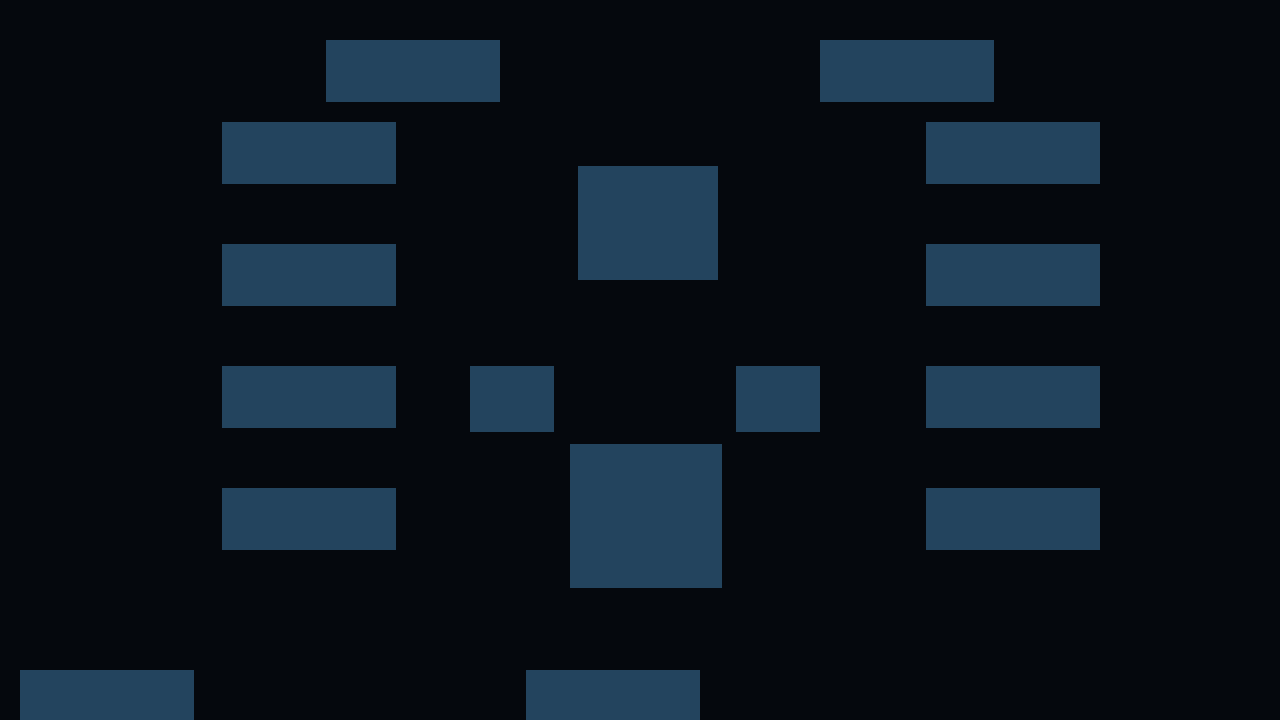
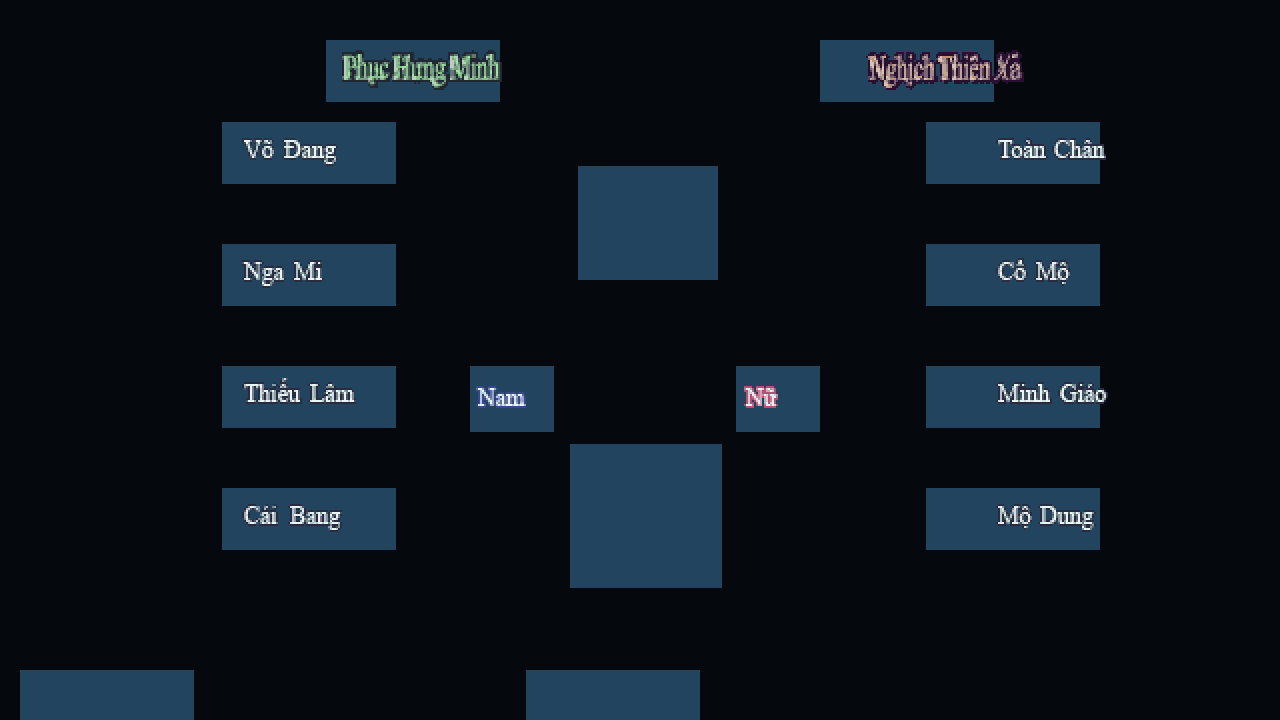
Draw a control's picture the way ImagePointer cuts it
An image id carries its own cell width: getWidthByImgID reads it as
imgID % 10000 / 100, and an id whose digits give zero is one cell the whole
image wide. ImagePointer then draws cell imgIndex at the control's top left,
full image height, at its own size rather than stretched to the control box.
LegacyImageCell is that arithmetic and LegacyImages serves the cells, sharing
one texture between every control that names the same image.

A control that has a picture no longer gets the skin's own button surface
underneath it; the picture is the surface, as in the original, and only its text
is drawn over it.

Window 2 draws its icon from 4554343. Window 10 reports 6240000, 6250000,
6270000 and 6280000 missing and window 11 reports 6240000: those profession
pictures are not in the decoded image set at all, so they are named rather than
replaced with something that would pass for the original's artwork.

diff --git a/client-core/src/main/java/vn/swordol/client/ui/legacy/LegacyWindow.java b/client-core/src/main/java/vn/swordol/client/ui/legacy/LegacyWindow.java
@@ -1,8 +1,10 @@
 package vn.swordol.client.ui.legacy;
 
 import com.badlogic.gdx.graphics.Color;
+import com.badlogic.gdx.graphics.g2d.TextureRegion;
 import com.badlogic.gdx.scenes.scene2d.Actor;
 import com.badlogic.gdx.scenes.scene2d.Group;
+import com.badlogic.gdx.scenes.scene2d.ui.Image;
 import com.badlogic.gdx.scenes.scene2d.ui.Label;
 import com.badlogic.gdx.scenes.scene2d.ui.Skin;
 import com.badlogic.gdx.scenes.scene2d.ui.TextButton;
@@ -29,16 +31,29 @@ public final class LegacyWindow extends Group {
   private final Map<Integer, Actor> actors = new LinkedHashMap<>();
 
   public LegacyWindow(UiLayout layout, Skin skin) {
+    this(layout, skin, null);
+  }
+
+  /**
+   * @param images the window's own pictures, or null to draw the plain surfaces of the skin
+   */
+  public LegacyWindow(UiLayout layout, Skin skin, LegacyImages images) {
     this.layout = layout;
     setSize(layout.width(), layout.height());
     for (UiLayout.Control control : layout.controls()) {
-      Actor actor = build(control, skin);
+      float top = LegacyPlacement.stageY(layout.height(), control.y(), control.height());
+      TextureRegion cell =
+          images == null ? null : images.cell(control.imageId(), control.imageIndex());
+      if (cell != null) {
+        // ImagePointer draws the cell at the control's top left, at its own size, not stretched.
+        Image picture = new Image(cell);
+        picture.setPosition(control.x(), top + control.height() - cell.getRegionHeight());
+        picture.setSize(cell.getRegionWidth(), cell.getRegionHeight());
+        addActor(picture);
+      }
+      Actor actor = build(control, skin, cell != null);
       if (actor == null) continue;
-      actor.setBounds(
-          control.x(),
-          LegacyPlacement.stageY(layout.height(), control.y(), control.height()),
-          control.width(),
-          control.height());
+      actor.setBounds(control.x(), top, control.width(), control.height());
       actors.put(control.id(), actor);
       addActor(actor);
     }
@@ -68,9 +83,16 @@ public final class LegacyWindow extends Group {
     return actor instanceof Label ? (Label) actor : null;
   }
 
-  private static Actor build(UiLayout.Control control, Skin skin) {
+  private static Actor build(UiLayout.Control control, Skin skin, boolean hasPicture) {
     switch (control.kind()) {
       case BUTTON:
+        if (hasPicture) {
+          // The picture is the button's surface, as it is in the original; only the text is added.
+          if (control.text().isEmpty()) return null;
+          Label caption = new Label(control.text(), skin);
+          caption.setColor(colour(control.textColor()));
+          return caption;
+        }
         TextButton button = new TextButton(control.text(), skin);
         button.getLabel().setColor(colour(control.textColor()));
         return button;

diff --git a/client-core/src/main/java/vn/swordol/client/ui/legacy/LegacyImages.java b/client-core/src/main/java/vn/swordol/client/ui/legacy/LegacyImages.java
@@ -1,0 +1,73 @@
+package vn.swordol.client.ui.legacy;
+
+import com.badlogic.gdx.graphics.Pixmap;
+import com.badlogic.gdx.graphics.Texture;
+import com.badlogic.gdx.graphics.g2d.TextureRegion;
+import com.badlogic.gdx.utils.Disposable;
+import java.io.IOException;
+import java.util.ArrayList;
+import java.util.HashMap;
+import java.util.List;
+import java.util.Map;
+import vn.swordol.client.render.ImageSet;
+
+/**
+ * The pictures a window's controls draw, cut the way {@code ImagePointer} cuts them: one image per
+ * legacy id, divided into equal cells whose width the id itself carries, with the cell an index
+ * names handed back. Textures are shared between every control that names the same image.
+ *
+ * <p>An id no source holds is reported rather than substituted, so a window shows what the data
+ * actually has instead of a stand-in that would look like the original's artwork.
+ */
+public final class LegacyImages implements Disposable {
+  private final ImageSet source;
+  private final Map<Integer, Texture> textures = new HashMap<>();
+  private final List<Integer> missing = new ArrayList<>();
+
+  public LegacyImages(ImageSet source) {
+    this.source = source;
+  }
+
+  /** The cell this control names, or null when the image or the cell is not there. */
+  public TextureRegion cell(int imageId, int imageIndex) {
+    if (imageId <= 0) return null;
+    Texture texture = texture(imageId);
+    if (texture == null) return null;
+    int width = LegacyImageCell.cellWidth(imageId, texture.getWidth());
+    if (!LegacyImageCell.holds(imageIndex, width, texture.getWidth())) return null;
+    return new TextureRegion(
+        texture, LegacyImageCell.sourceX(imageIndex, width), 0, width, texture.getHeight());
+  }
+
+  public List<Integer> missingImages() {
+    return new ArrayList<>(missing);
+  }
+
+  private Texture texture(int imageId) {
+    if (textures.containsKey(imageId)) return textures.get(imageId);
+    Texture loaded = null;
+    try {
+      byte[] bytes = source.read(imageId);
+      if (bytes == null) {
+        missing.add(imageId);
+      } else {
+        Pixmap pixels = new Pixmap(bytes, 0, bytes.length);
+        try {
+          loaded = new Texture(pixels);
+        } finally {
+          pixels.dispose();
+        }
+      }
+    } catch (IOException | RuntimeException ex) {
+      missing.add(imageId);
+    }
+    textures.put(imageId, loaded);
+    return loaded;
+  }
+
+  @Override
+  public void dispose() {
+    for (Texture texture : textures.values()) if (texture != null) texture.dispose();
+    textures.clear();
+  }
+}

diff --git a/asset-runtime/src/main/java/vn/swordol/assets/runtime/UiLayout.java b/asset-runtime/src/main/java/vn/swordol/assets/runtime/UiLayout.java
@@ -101,6 +101,7 @@ public final class UiLayout {
     JsonElement text = source.get("text");
     JsonElement colour = source.get("text_color");
     JsonElement image = source.get("image_id");
+    JsonElement imageIndex = source.get("image_index");
     JsonElement limit = source.get("char_limit");
     return new Control(
         (int) RuntimeJson.integer(member(source, "id"), "control id"),
@@ -112,6 +113,7 @@ public final class UiLayout {
         text == null || text.isJsonNull() ? "" : RuntimeJson.string(text, "control text"),
         colour == null ? 0 : (int) RuntimeJson.integer(colour, "control text colour"),
         image == null ? 0 : (int) RuntimeJson.integer(image, "control image"),
+        imageIndex == null ? 0 : (int) RuntimeJson.integer(imageIndex, "control image index"),
         limit == null ? 0 : (int) RuntimeJson.integer(limit, "control char limit"));
   }
 
@@ -166,7 +168,7 @@ public final class UiLayout {
 
   /** One placed control, in the original's own coordinate space. */
   public static final class Control {
-    private final int id, x, y, width, height, textColor, imageId, charLimit;
+    private final int id, x, y, width, height, textColor, imageId, imageIndex, charLimit;
     private final Kind kind;
     private final String text;
 
@@ -180,6 +182,7 @@ public final class UiLayout {
         String text,
         int textColor,
         int imageId,
+        int imageIndex,
         int charLimit) {
       this.id = id;
       this.kind = kind;
@@ -190,6 +193,7 @@ public final class UiLayout {
       this.text = text;
       this.textColor = textColor;
       this.imageId = imageId;
+      this.imageIndex = imageIndex;
       this.charLimit = charLimit;
     }
 
@@ -229,6 +233,11 @@ public final class UiLayout {
     /** The legacy image this control draws, or 0 when it draws none. */
     public int imageId() {
       return imageId;
+    }
+
+    /** Which cell of that image the control draws; ImagePointer steps along a strip by this. */
+    public int imageIndex() {
+      return imageIndex;
     }
 
     public int charLimit() {

diff --git a/client-core/src/main/java/vn/swordol/client/ui/legacy/LegacyImageCell.java b/client-core/src/main/java/vn/swordol/client/ui/legacy/LegacyImageCell.java
@@ -1,0 +1,36 @@
+package vn.swordol.client.ui.legacy;
+
+/**
+ * How the original cuts a control's picture out of one image. {@code ImagePointer} treats an image
+ * as a horizontal strip of equal cells and draws the cell its index names:
+ *
+ * <pre>
+ *   int xOffset = imgIndex * m_imgw;
+ *   drawRegion(g, image, xOffset, 0, m_imgw, image.getHeight(), flip, x, y, TOP | LEFT);
+ * </pre>
+ *
+ * <p>The cell width is carried by the image id itself, {@code getWidthByImgID} reading it as {@code
+ * imgID % 10000 / 100}; an id whose digits give zero is a single cell the whole image wide. The
+ * cell is always the full height of the image, and it is placed at the control's top left at its
+ * own size rather than stretched to the control's box.
+ */
+public final class LegacyImageCell {
+  private LegacyImageCell() {}
+
+  /** ImagePointer.getImageSeparatedWidth: the id's own digits, or the whole image. */
+  public static int cellWidth(int imageId, int imageWidth) {
+    int declared = Math.floorMod(imageId, 10000) / 100;
+    return declared == 0 ? imageWidth : declared;
+  }
+
+  /** The left edge of the cell this index names. */
+  public static int sourceX(int imageIndex, int cellWidth) {
+    return Math.max(0, imageIndex) * cellWidth;
+  }
+
+  /** False when the strip does not hold a cell at this index, so nothing should be drawn. */
+  public static boolean holds(int imageIndex, int cellWidth, int imageWidth) {
+    if (cellWidth <= 0 || imageIndex < 0) return false;
+    return sourceX(imageIndex, cellWidth) + cellWidth <= imageWidth;
+  }
+}

diff --git a/lwjgl3/src/test/java/vn/swordol/desktop/LegacyWindowProbe.java b/lwjgl3/src/test/java/vn/swordol/desktop/LegacyWindowProbe.java
@@ -11,6 +11,7 @@ import java.util.Collections;
 import vn.swordol.assets.runtime.UiLayout;
 import vn.swordol.client.render.ImageSet;
 import vn.swordol.client.ui.NativeLoginGame;
+import vn.swordol.client.ui.legacy.LegacyImages;
 import vn.swordol.client.ui.legacy.LegacySkin;
 import vn.swordol.client.ui.legacy.LegacyWindow;
 
@@ -42,7 +43,8 @@ public final class LegacyWindowProbe {
               UiLayout layout = UiLayout.read(document);
               // The original draws every window on this one surface, so the viewport is the window.
               stage = new Stage(new FitViewport(layout.width(), layout.height()));
-              LegacyWindow window = new LegacyWindow(layout, LegacySkin.create());
+              LegacyImages pictures = new LegacyImages(images);
+              LegacyWindow window = new LegacyWindow(layout, LegacySkin.create(), pictures);
               stage.addActor(window);
               System.out.println(
                   "LEGACY_WINDOW "
@@ -52,7 +54,9 @@ public final class LegacyWindowProbe {
                       + "x"
                       + layout.height()
                       + " controls="
-                      + layout.controls().size());
+                      + layout.controls().size()
+                      + " missingImages="
+                      + pictures.missingImages());
             } catch (Exception ex) {
               throw new AssertionError("Legacy window probe failed", ex);
             }

diff --git a/client-core/src/test/java/vn/swordol/client/ui/legacy/LegacyImageCellTest.java b/client-core/src/test/java/vn/swordol/client/ui/legacy/LegacyImageCellTest.java
@@ -1,0 +1,32 @@
+package vn.swordol.client.ui.legacy;
+
+import static org.junit.Assert.*;
+
+import org.junit.Test;
+
+public class LegacyImageCellTest {
+  @Test
+  public void takesTheCellWidthOutOfTheImageIdTheWayTheOriginalDoes() {
+    // 4554343 % 10000 / 100 = 43: the login window's strip is cut into 43 pixel cells.
+    assertEquals(43, LegacyImageCell.cellWidth(4554343, 860));
+    // 6240000 gives zero, so the whole image is one cell.
+    assertEquals(120, LegacyImageCell.cellWidth(6240000, 120));
+  }
+
+  @Test
+  public void stepsAlongTheStripByTheIndex() {
+    assertEquals(0, LegacyImageCell.sourceX(0, 43));
+    assertEquals(43, LegacyImageCell.sourceX(1, 43));
+    assertEquals(129, LegacyImageCell.sourceX(3, 43));
+  }
+
+  @Test
+  public void refusesACellTheStripDoesNotReach() {
+    assertTrue(LegacyImageCell.holds(0, 43, 86));
+    assertTrue(LegacyImageCell.holds(1, 43, 86));
+    // A third 43 pixel cell would need 129 pixels.
+    assertFalse(LegacyImageCell.holds(2, 43, 86));
+    assertFalse(LegacyImageCell.holds(-1, 43, 86));
+    assertFalse(LegacyImageCell.holds(0, 0, 86));
+  }
+}
